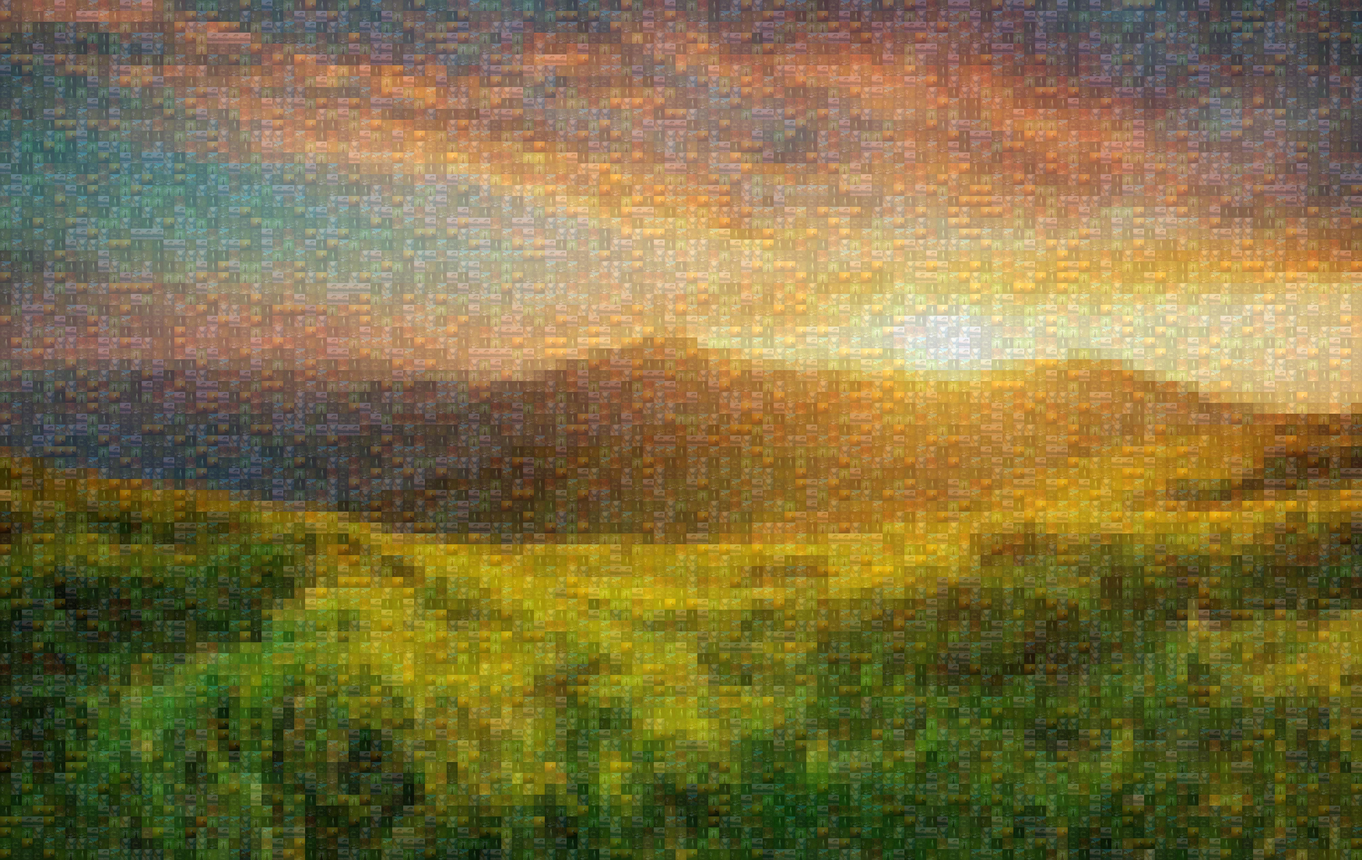
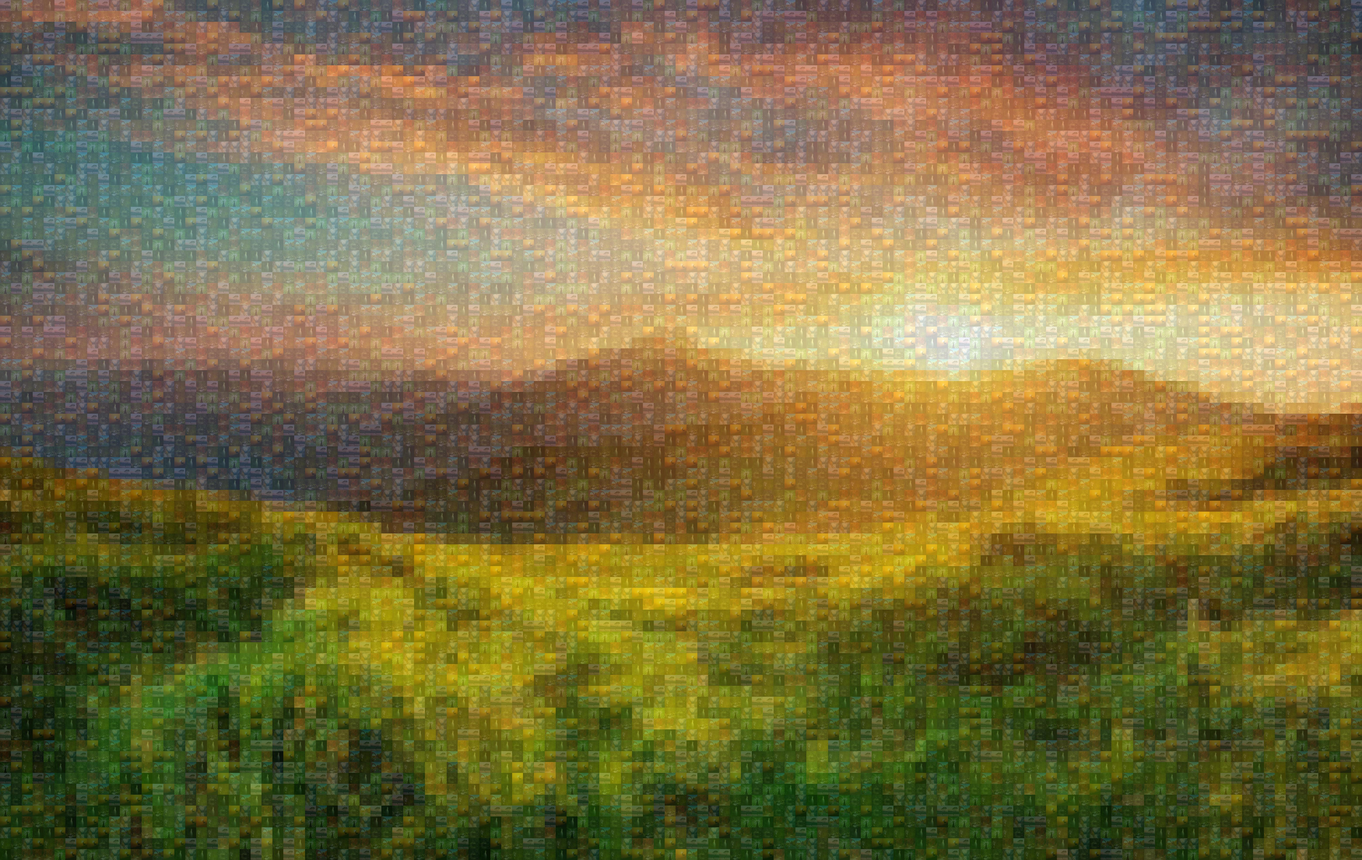
Temp files keep their extension

diff --git a/Photo-Mosaic-Maker/mosaic.py b/Photo-Mosaic-Maker/mosaic.py
@@ -127,9 +127,7 @@ if __name__ == "__main__":
     for file_name in file_names:
         image = Image.open(original_path + "/" + file_name)
         image = image.resize((cell_x, cell_y))
-        image = image.convert("RGBA")
-        new_file_name = os.path.splitext(file_name)[0] + '.png'
-        image.save(edited_path + "/" + new_file_name)
+        image.save(edited_path + "/" + file_name)
 
     # Get all the images in the path (only allow specific extensions)
     file_names = [f for f in listdir(edited_path) if isfile(join(edited_path, f))]
@@ -139,7 +137,7 @@ if __name__ == "__main__":
     images = {}
     for image_name in file_names:
         img = Image.open(edited_path + "/" + image_name)
-        images[image_name] = img
+        images[image_name] = img.convert("RGBA")
     
     # Open the input image
     input_image = Image.open(input_file)
